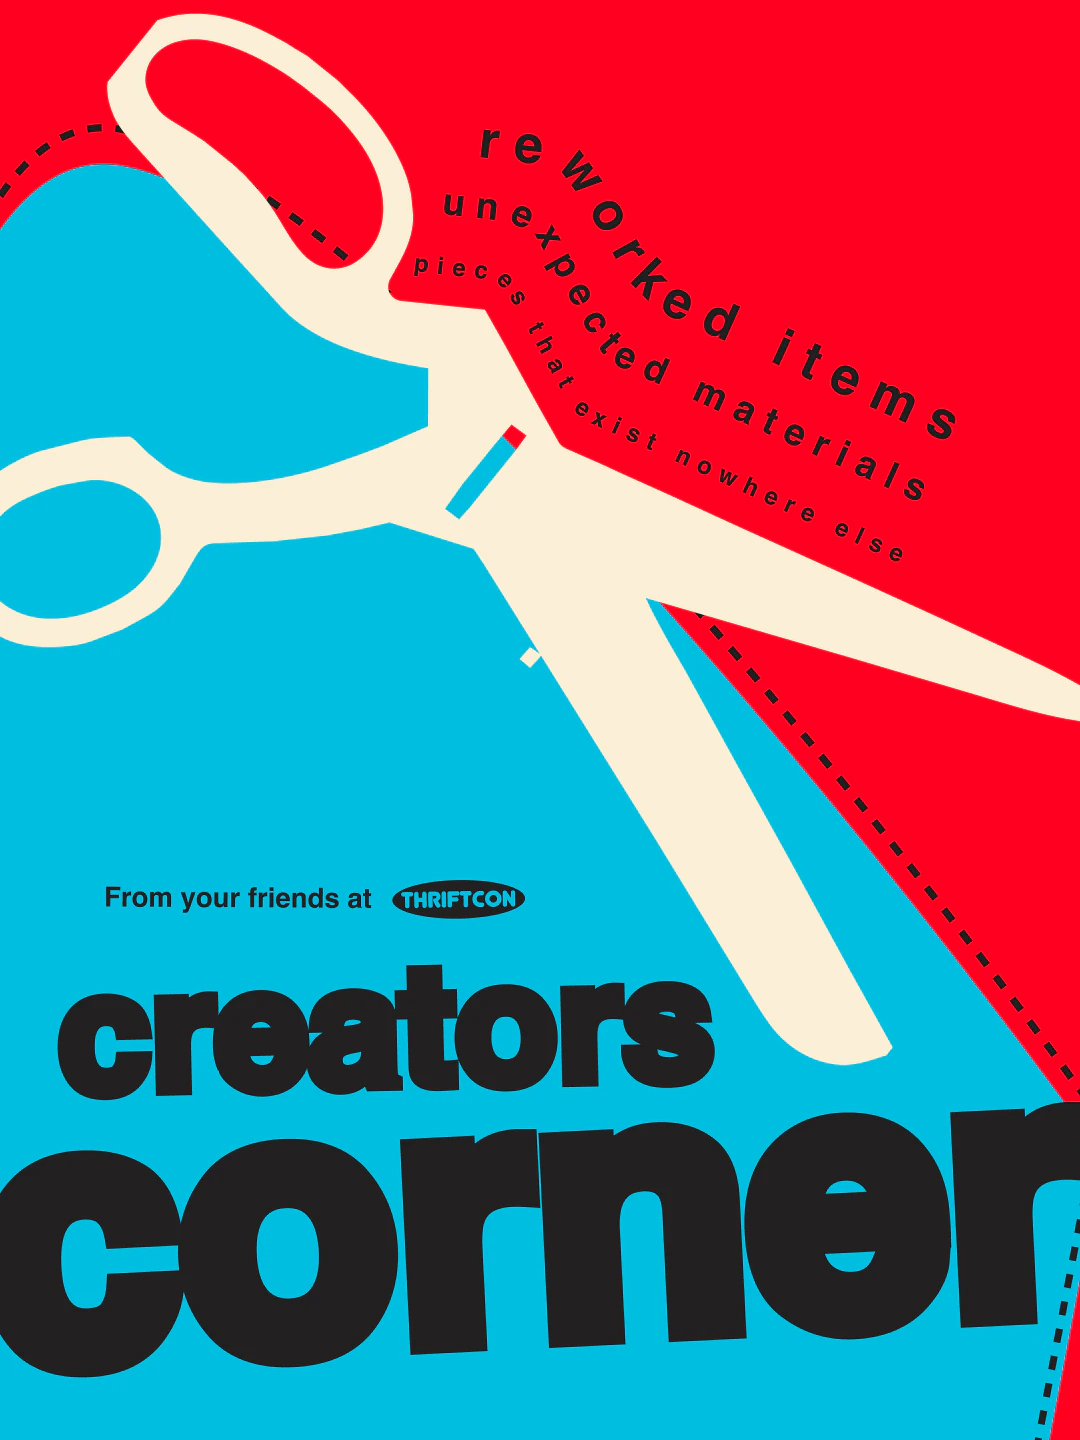
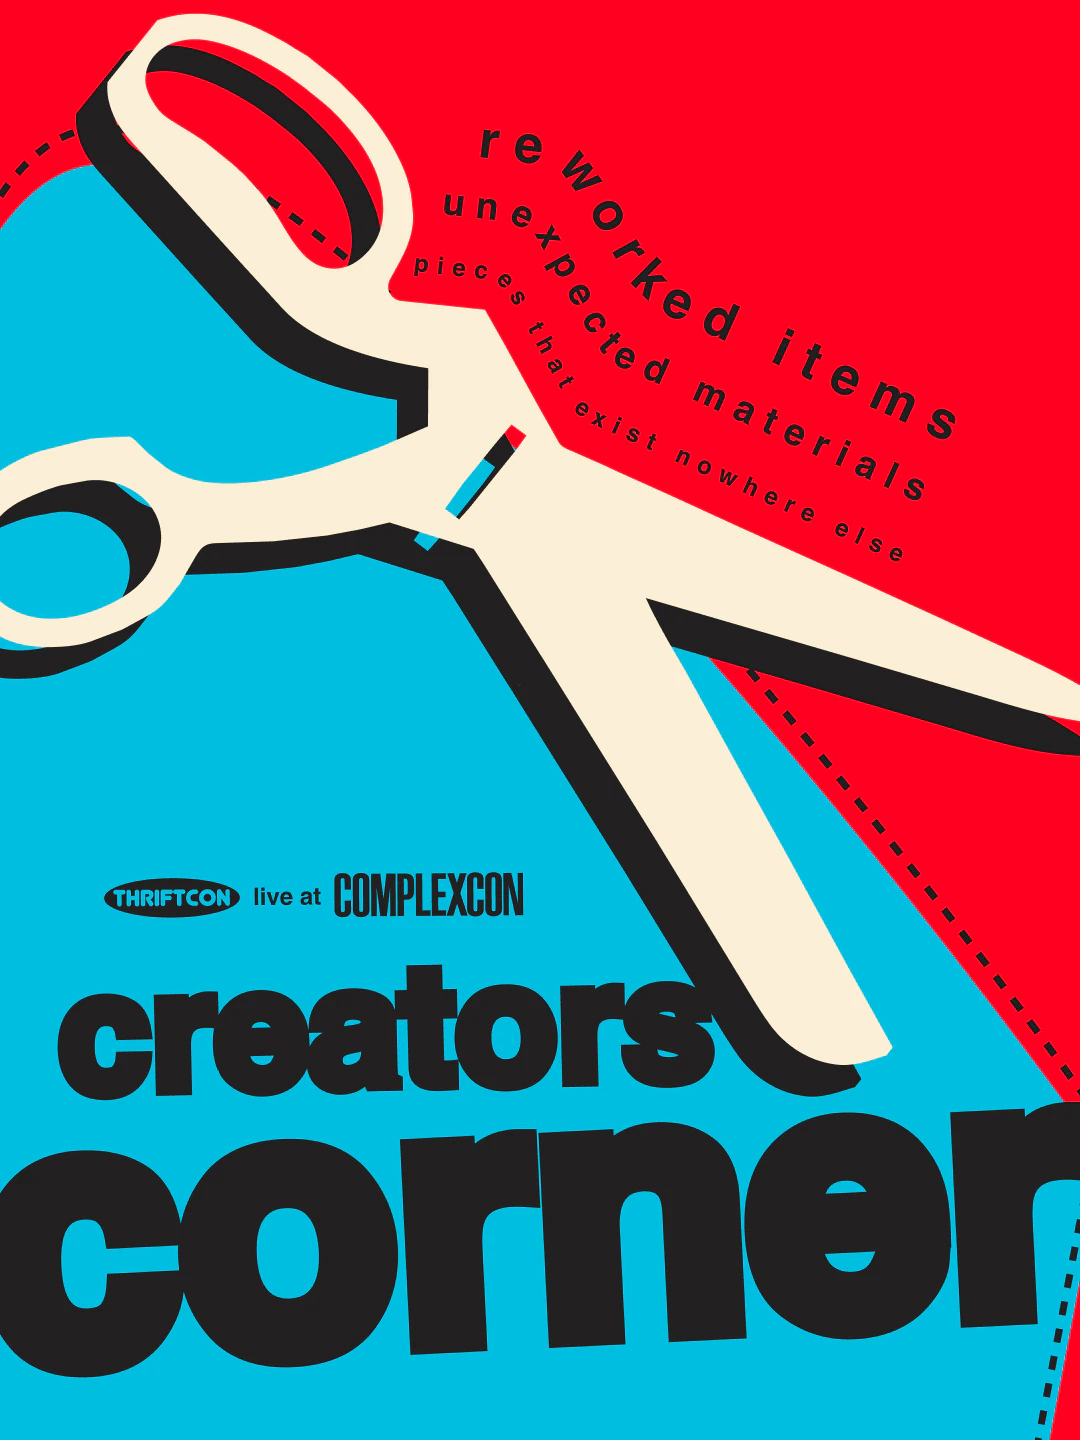
Fix Creators Corner poster and trim Nitro Bar copy (#11)
* Replace ThriftCon Creators Corner poster with the corrected version

The previous file was an older version of the poster. The corrected one
has the shadowed scissors and the "THRIFTCON live at COMPLEXCON" lockup
that matches the rest of the set. Converted to WebP at the same settings
as the other posters (q90, 1080x1440, 98KB).

* Remove one sentence from the Nitro Bar copy

Drops "Sometimes you get burned though." from the project description.

---------

diff --git a/src/app/creative-director/page.js b/src/app/creative-director/page.js
@@ -359,7 +359,7 @@ export default function CreativePage() {
     nitro: {
       title: "Nitro Bar",
       tagline: "Locally famous coffee",
-      description: "I was in the running to be Head of Merch for Nitro Bar, and did all this work for them for free in order to secure the position. I mean, they have 600k TikTok followers and 200k Instagram followers, but more importantly THEY'RE PROVIDENCE BASED. How cool. I had to put my neck out there. Sometimes you get burned though. Unfortunately, for reasons I'm not quite sure about, they told me I had the role and backed out when I sent my proposal. I'm showing the work though because work is still work, and it's some of my best.",
+      description: "I was in the running to be Head of Merch for Nitro Bar, and did all this work for them for free in order to secure the position. I mean, they have 600k TikTok followers and 200k Instagram followers, but more importantly THEY'RE PROVIDENCE BASED. How cool. I had to put my neck out there. Unfortunately, for reasons I'm not quite sure about, they told me I had the role and backed out when I sent my proposal. I'm showing the work though because work is still work, and it's some of my best.",
       sections: {
         hoodies: { title: "Hoodies" },
         hats: { title: "Hats" },
